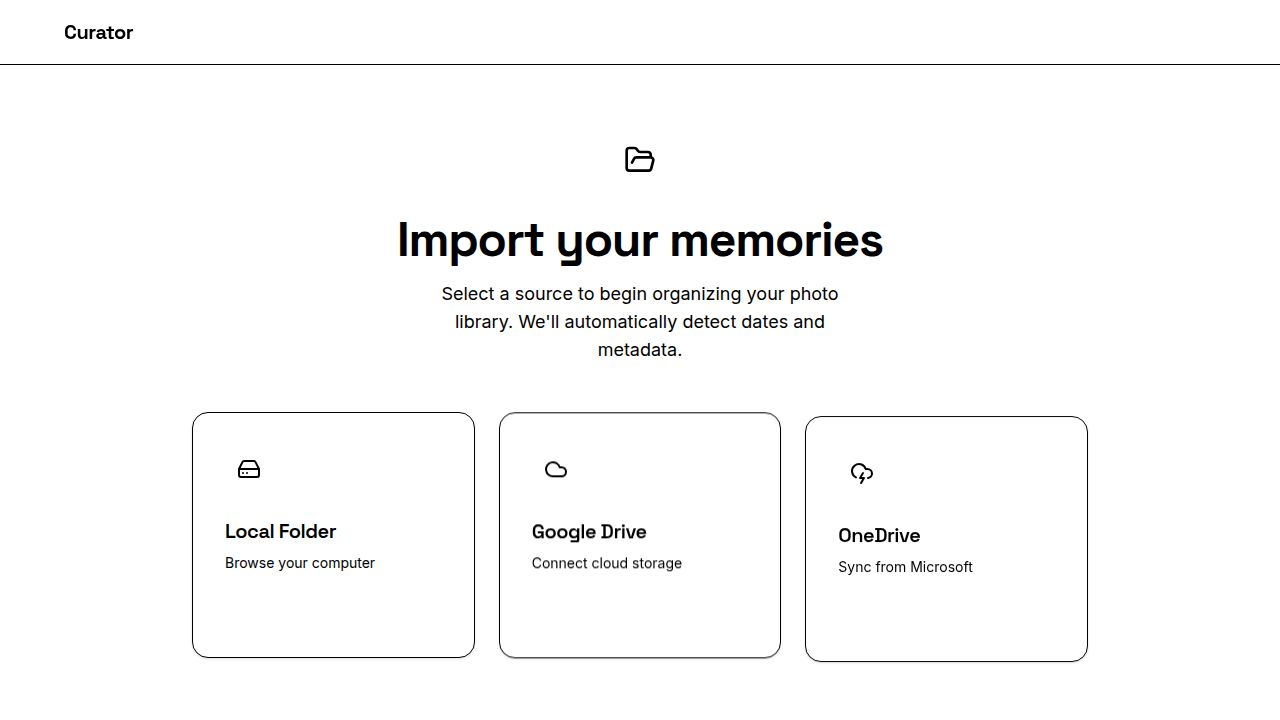
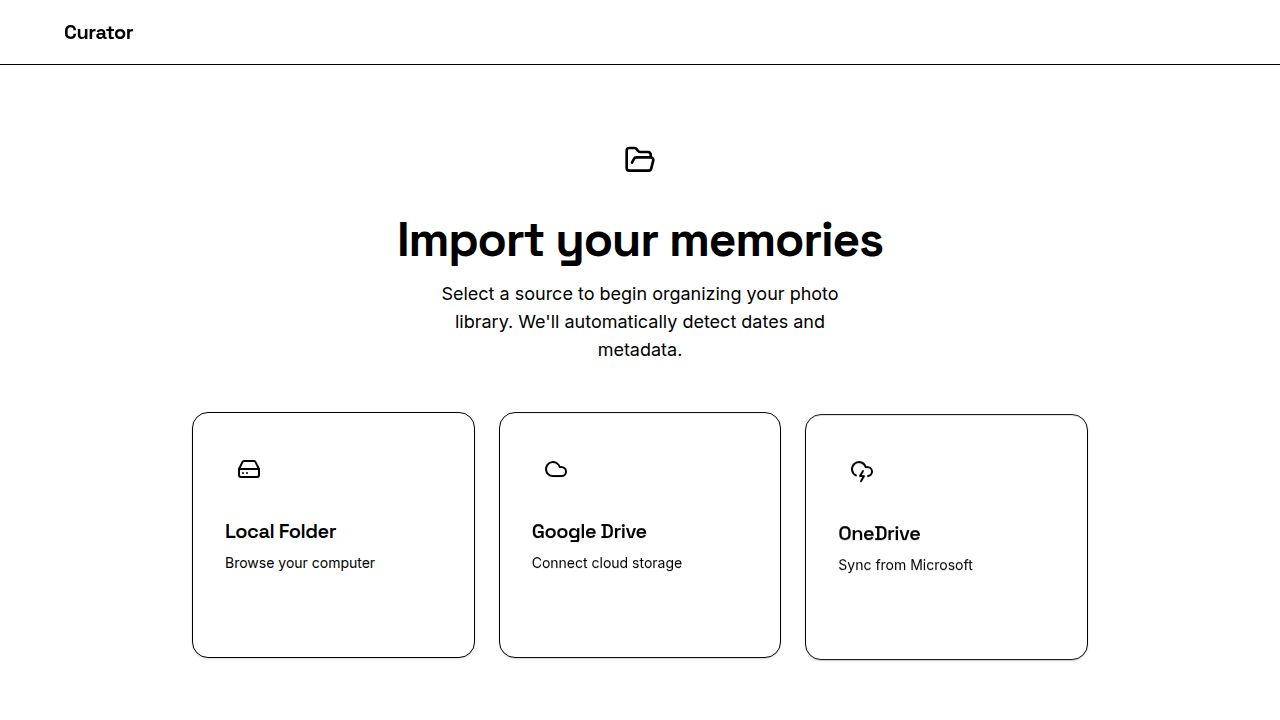
Adjust home page layout and wording for better mobile viewing
Update heading to "Sort Your Photos" and significantly reduce the size of buttons and associated text within the FilePicker component and its SourceCard sub-component for improved mobile responsiveness. Adjust padding and margins to ensure all elements fit within a single mobile screen.

Replit-Commit-Author: Agent
Replit-Commit-Session-Id: 04a19a68-6168-47a9-8fe3-abebb29c6b7c
Replit-Commit-Checkpoint-Type: full_checkpoint
Replit-Commit-Event-Id: 385d73d2-16f4-4031-a007-71f46c79d87a
Replit-Commit-Screenshot-Url: https://storage.googleapis.com/screenshot-production-us-central1/3ee6eb57-a22a-429d-93ed-dd9569d6757b/04a19a68-6168-47a9-8fe3-abebb29c6b7c/vIHsasu
Replit-Helium-Checkpoint-Created: true

diff --git a/client/src/components/FilePicker.tsx b/client/src/components/FilePicker.tsx
@@ -63,7 +63,7 @@ export function FilePicker({ onSelectSource }: FilePickerProps) {
   };
 
   return (
-    <div className="min-h-[60vh] flex flex-col items-center justify-center p-8 relative">
+    <div className="min-h-[50vh] flex flex-col items-center justify-center p-4 sm:p-8 relative">
       {/* Hidden Input for Directory Selection */}
       <input
         type="file"
@@ -76,16 +76,16 @@ export function FilePicker({ onSelectSource }: FilePickerProps) {
       <motion.div 
         initial={{ opacity: 0, y: -20 }}
         animate={{ opacity: 1, y: 0 }}
-        className="text-center mb-12 space-y-4"
+        className="text-center mb-6 sm:mb-10 space-y-2 sm:space-y-3"
       >
-        <div className="w-16 h-16 bg-primary/5 rounded-2xl flex items-center justify-center mx-auto mb-6">
-          <FolderOpen className="w-8 h-8 text-primary" />
+        <div className="w-12 h-12 sm:w-14 sm:h-14 bg-primary/5 rounded-xl flex items-center justify-center mx-auto mb-3 sm:mb-4">
+          <FolderOpen className="w-6 h-6 sm:w-7 sm:h-7 text-primary" />
         </div>
-        <h1 className="text-4xl md:text-5xl font-bold text-primary tracking-tight">
-          Import your memories
+        <h1 className="text-2xl sm:text-3xl md:text-4xl font-bold text-primary tracking-tight">
+          Sort Your Photos
         </h1>
-        <p className="text-muted-foreground text-lg max-w-md mx-auto">
-          Select a source to begin organizing your photo library. We'll automatically detect dates and metadata.
+        <p className="text-muted-foreground text-sm sm:text-base max-w-sm mx-auto">
+          Choose a source to organize your photos by year
         </p>
       </motion.div>
 
@@ -103,26 +103,26 @@ export function FilePicker({ onSelectSource }: FilePickerProps) {
           variants={container}
           initial="hidden"
           animate="show"
-          className="grid grid-cols-1 md:grid-cols-3 gap-6 w-full max-w-4xl"
+          className="grid grid-cols-3 gap-2 sm:gap-4 w-full max-w-md sm:max-w-2xl px-2"
         >
           <SourceCard 
             icon={HardDrive} 
-            label="Local Folder" 
-            desc="Browse your computer"
+            label="Local" 
+            desc="Device"
             onClick={handleLocalClick}
             variants={item}
           />
           <SourceCard 
             icon={Cloud} 
-            label="Google Drive" 
-            desc="Connect cloud storage"
+            label="Google" 
+            desc="Drive"
             onClick={() => handleCloudConnect('gdrive')}
             variants={item}
           />
           <SourceCard 
             icon={CloudLightning} 
             label="OneDrive" 
-            desc="Sync from Microsoft"
+            desc="Microsoft"
             onClick={() => handleCloudConnect('onedrive')}
             variants={item}
           />
@@ -138,19 +138,15 @@ function SourceCard({ icon: Icon, label, desc, onClick, variants }: any) {
     <motion.button
       variants={variants}
       onClick={onClick}
-      whileHover={{ scale: 1.02, y: -4 }}
+      whileHover={{ scale: 1.02, y: -2 }}
       whileTap={{ scale: 0.98 }}
-      className="group relative p-8 rounded-2xl bg-white border border-border shadow-sm hover:shadow-xl hover:border-primary/20 transition-all duration-300 text-left flex flex-col h-full"
+      className="group relative p-3 sm:p-5 rounded-xl bg-white border border-border shadow-sm hover:shadow-lg hover:border-primary/20 transition-all duration-300 text-center flex flex-col items-center h-full"
     >
-      <div className="w-12 h-12 rounded-full bg-secondary flex items-center justify-center mb-6 group-hover:bg-primary group-hover:text-white transition-colors duration-300">
-        <Icon className="w-6 h-6" />
+      <div className="w-10 h-10 sm:w-12 sm:h-12 rounded-full bg-secondary flex items-center justify-center mb-2 sm:mb-3 group-hover:bg-primary group-hover:text-white transition-colors duration-300">
+        <Icon className="w-5 h-5 sm:w-6 sm:h-6" />
       </div>
-      <h3 className="text-xl font-semibold mb-2">{label}</h3>
-      <p className="text-sm text-muted-foreground mb-8">{desc}</p>
-      
-      <div className="mt-auto flex items-center text-sm font-medium text-primary opacity-0 group-hover:opacity-100 transform translate-x-[-10px] group-hover:translate-x-0 transition-all duration-300">
-        Select Source <ArrowRight className="w-4 h-4 ml-2" />
-      </div>
+      <h3 className="text-sm sm:text-base font-semibold">{label}</h3>
+      <p className="text-xs text-muted-foreground">{desc}</p>
     </motion.button>
   );
 }
